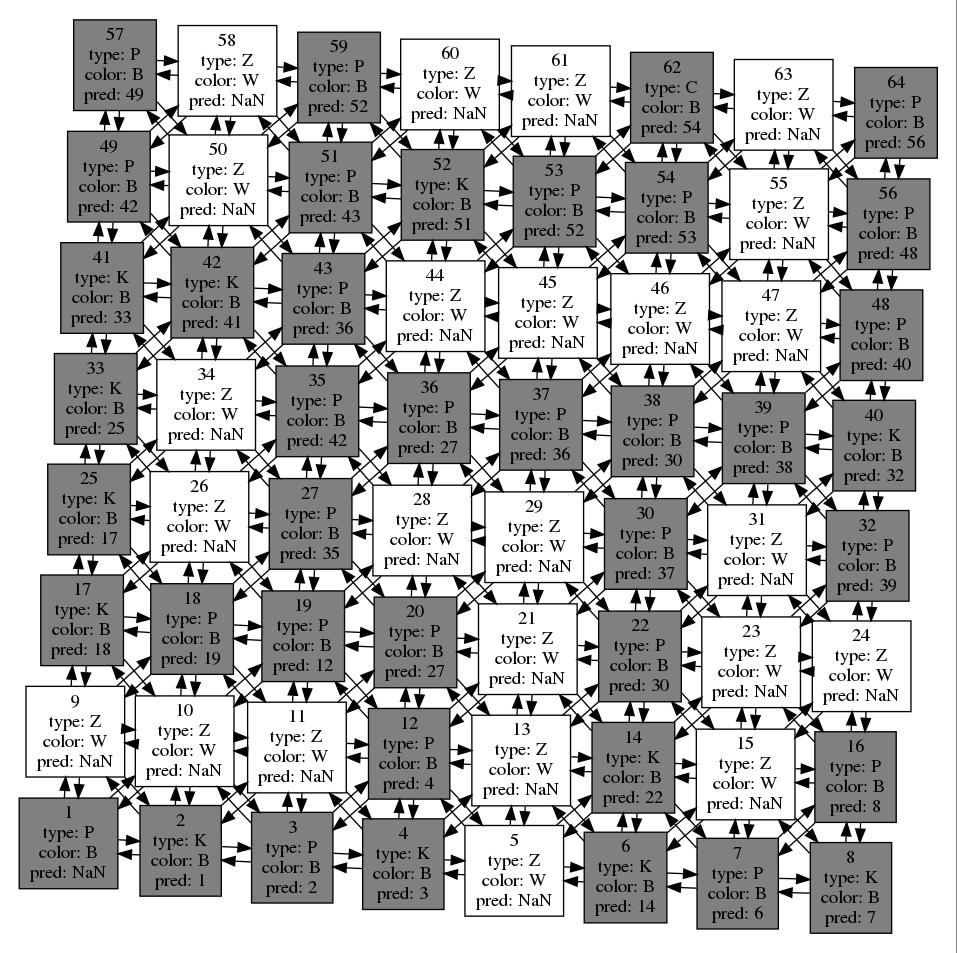
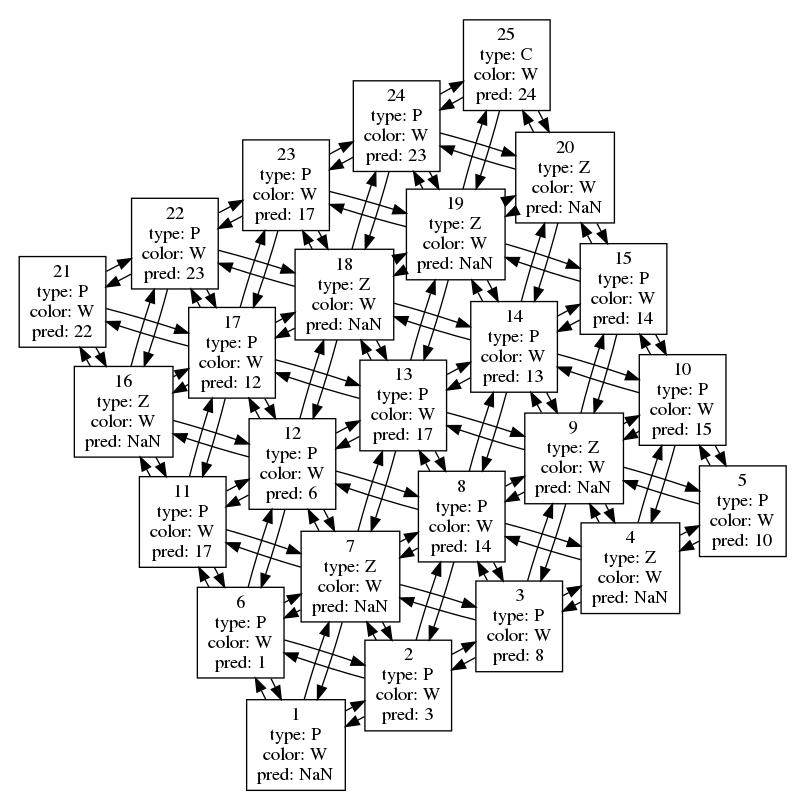
Za Markana

diff --git a/PoslednjiKol/Zadatak 10.4/skripta.m b/PoslednjiKol/Zadatak 10.4/skripta.m
@@ -3,21 +3,18 @@
 clc;
 clear;
 
-nbRows = 8;
-nbColumns = 8;
-% generisanje matrice susedstva za tablu
+% primer10_1.m
+clc;
+clear;
+% inicjalizujemo podatke u grafu
+nbRows = 5;
+nbColumns = 5;
 G.AdjMatrix = generateTableAdjMatrix(nbRows, nbColumns);
-% definisanje tipova cvorova u grafu: put, zid i cilj i kovceg
-G.nodeTypes = ['P' 'Z' 'C' 'K'];
-% definisanje boje za odredjenu vrstu tipa cvora : belo, zeleno i plavo iz
-% tabele boja
-G.nodeTypeColorIDs = [1 11 10 15];
-% definisanje tipa za odredjeni podskup cvorova iz grafa
-G = defineNodesType(G, 1:length(G.AdjMatrix), 'P'); %put
-G = defineNodesType(G, [5 9 10 11 13 15 21 23 24 26 28 29 31 ...
-34 44 45 46 47 50 55 58 60 61 63], 'Z'); %zid
-G = defineNodesType(G, [17 25 33 2 4 6 8 14 40 41 42 62 52],'K'); %kovceg
-G = defineNodesType(G, [62], 'C'); %cilj
+G.nodeTypes = ['P' 'Z' 'C'];
+G = defineNodesType(G,[1 2 3 5 6 8 10 11 12 13 14 15 17 21 22 23 24 25],'P'); %PUT
+G = defineNodesType(G, [4 7 9 16 18 19 20], 'Z'); %ZID
+G = defineNodesType(G, [25],'C'); %CILJ
+G.nodeTypeColorIDs = [1 11 10];
 
 [path,Gp]=DFSGold(G,1);
 path

diff --git a/PoslednjiKol/DFSMaps/DFS.m b/PoslednjiKol/DFSMaps/DFS.m
@@ -15,33 +15,20 @@ function G = DFS(G,s,idTr)
     
   endfor
   
-  global grupa;
-  grupa=0;
   time=0;
   
-  for u=v
-    
-    if G.V(u).color=='W' && u==s
-      
-      G=DFS_Visit(G, u, idTr);
-      grupa=grupa+1;
-      
-    endif
-    
-  endfor
+  G=DFS_Visit(G, s, idTr);
   
 endfunction
 
 function G = DFS_Visit(G,u,idTr)
   
-  global grupa;
   global time;
   global start;
   time=time+1;
   
   G.V(u).color='G';
   G.V(u).d=time;
-  G.V(u).grupa=grupa;
   
   for v=find(G.AdjMatrix(u,:))
     

diff --git a/PoslednjiKol/Zadatak 10.4/DFSGold.m b/PoslednjiKol/Zadatak 10.4/DFSGold.m
@@ -53,6 +53,6 @@ function G = DFS_Visit(G,u)
     
   endfor
   
-  G.V(u).color='B';
+  G.V(u).color='W';
   
 endfunction
